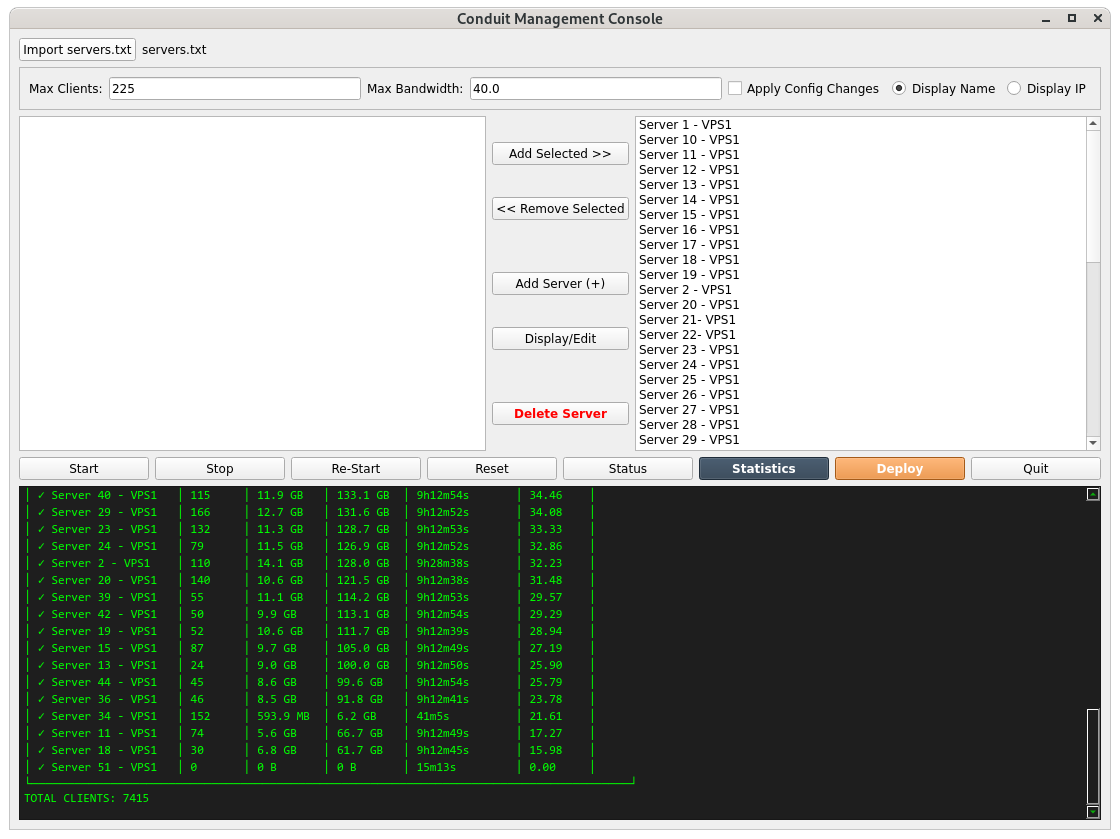
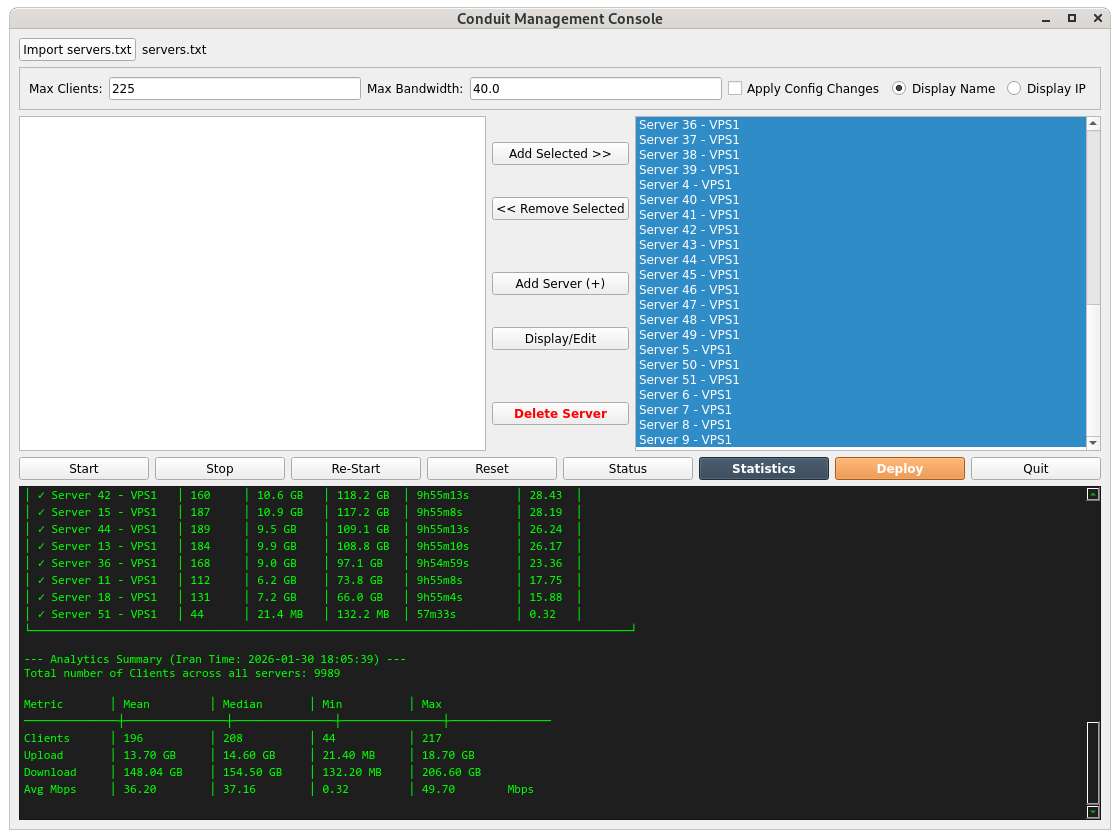
Added interactive PyQt Gui for managing conduit services remotely

diff --git a/ConduitQt.py b/ConduitQt.py
@@ -263,7 +263,79 @@ class StatsWorker(QThread):
         if 'KB' in u: return num * 1024
         return num
 
+#    def strip_ansi(text):
+#        return re.compile(r'\x1b\[[0-9;]*[a-zA-Z]').sub('', text)
+
+    def format_bytes(self,b):
+        if b == 0: return "0 B"
+        for unit in ['B', 'KB', 'MB', 'GB', 'TB']:
+            if b < 1024: return f"{b:.2f} {unit}"
+            b /= 1024
+        return f"{b:.2f} PB"
+
     def generate_table(self, results):
+        # 1. Main Table Generation (The header and server rows)
+        width = 83
+        head = f"│ {'Name/IP':<20} │ {'Clients':<7} │ {'Up':<9} │ {'Down':<9} │ {'Uptime':<14} │ {'Mbps':<6} │\n"
+        sep = "├" + "─"*22 + "┼" + "─"*9 + "┼" + "─"*11 + "┼" + "─"*11 + "┼" + "─"*16 + "┼" + "─"*8 + "┤\n"
+        
+        body = ""
+        valid_results = [r for r in results if r["success"]]
+        
+        for r in results:
+            status = "✓" if r["success"] else "✗"
+            body += f"│ {status} {r['label'][:18]:<18} │ {r['clients']:<7} │ {r['up']:<9} │ {r['down']:<9} │ {r['uptime']:<14} │ {r['mbps']:<6} │\n"
+        
+        main_table = f"┌" + "─"*width + "┐\n" + head + sep + body + "└" + "─"*width + "┘"
+
+        # 2. Analytics Summary Logic (Integrated from your script)
+        if not valid_results:
+            return main_table + "\n[!] No active data to calculate analytics."
+
+        # Set up timestamp for Iran Time (UTC+3:30)
+        ts = (datetime.now(timezone.utc) + timedelta(hours=3, minutes=30)).strftime('%Y-%m-%d %H:%M:%S')
+        
+        total_clients = sum([int(r["clients"]) for r in valid_results if r["clients"].isdigit()])
+        
+        out = []
+        out.append(f"\n--- Analytics Summary (Iran Time: {ts}) ---")
+        out.append(f"Total number of Clients across all servers: {total_clients}\n")
+        
+        # Header for the Metric Table
+        out.append(f"{'Metric':<12} │ {'Mean':<12} │ {'Median':<12} │ {'Min':<12} │ {'Max':<12}")
+        sep_line = f"{'─'*13}┼{'─'*14}┼{'─'*14}┼{'─'*14}┼{'─'*14}"
+        out.append(sep_line)
+
+        # Stat Row Helper function
+        def get_stat_row(label, data_list, is_bytes=False):
+            if not data_list: return ""
+            avg_val = statistics.mean(data_list)
+            med_val = statistics.median(data_list)
+            min_val = min(data_list)
+            max_val = max(data_list)
+            
+            if is_bytes:
+                return f"{label:<12} │ {self.format_bytes(avg_val):<12} │ {self.format_bytes(med_val):<12} │ {self.format_bytes(min_val):<12} │ {self.format_bytes(max_val):<12}"
+            if label == "Clients":
+                return f"{label:<12} │ {int(round(avg_val)):<12} │ {int(round(med_val)):<12} │ {int(min_val):<12} │ {int(max_val):<12}"
+            # Avg Mbps
+            return f"{label:<12} │ {avg_val:<12.2f} │ {med_val:<12.2f} │ {min_val:<12.2f} │ {max_val:<12.2f} Mbps"
+
+        # Data extraction for the Metric table
+        clients_list = [int(r["clients"]) for r in valid_results if str(r["clients"]).isdigit()]
+        ups = [self.parse_to_bytes(r["up"]) for r in valid_results]
+        downs = [self.parse_to_bytes(r["down"]) for r in valid_results]
+        mbps_list = [r["mbps_val"] for r in valid_results]
+
+        # Append the calculated rows
+        out.append(get_stat_row("Clients", clients_list))
+        out.append(get_stat_row("Upload", ups, True))
+        out.append(get_stat_row("Download", downs, True))
+        out.append(get_stat_row("Avg Mbps", mbps_list))
+
+        return main_table + "\n" + "\n".join(out)
+
+    def generate_table2(self, results):
         # Slightly wider name column for Linux paths/long names
         head = f"│ {'Name/IP':<20} │ {'Clients':<7} │ {'Up':<9} │ {'Down':<9} │ {'Uptime':<14} │ {'Mbps':<6} │\n"
         sep = "├" + "─"*20 + "┼" + "─"*9 + "┼" + "─"*11 + "┼" + "─"*11 + "┼" + "─"*16 + "┼" + "─"*8 + "┤\n"

diff --git a/README.md b/README.md
@@ -1,4 +1,4 @@
-# Psiphon Conduit Setup
+# Psiphon Conduit Setup for Windows and Linux
 
 This repository provides a suite of tools designed for Windows users to deploy, monitor, and manage **Psiphon Conduit** on remote Linux servers.
 
